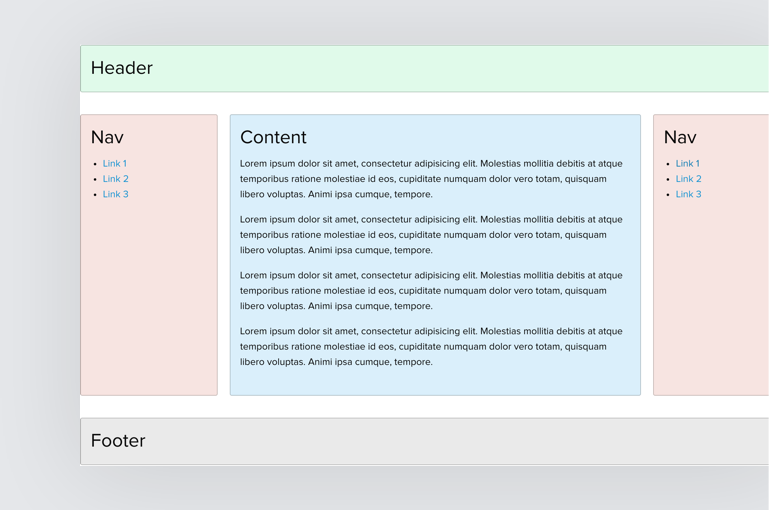
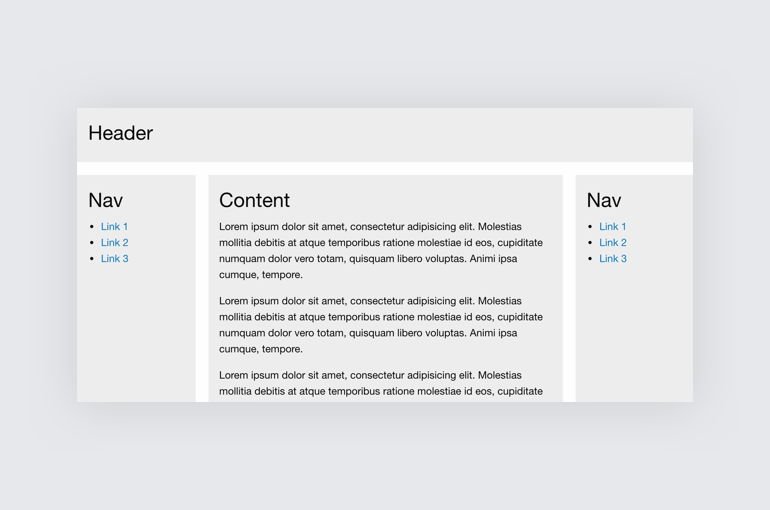
clean up classes for BBs button-badge, card-select, holy-grial, sign-in-form. change thumbnail for holy grail

diff --git a/src/building-blocks/holy-grail/holy-grail.html b/src/building-blocks/holy-grail/holy-grail.html
@@ -1,9 +1,9 @@
-<div class="grid-container">
-  <div class="header callout success">
+<div class="holy-grail-grid">
+  <div class="holy-grail-header">
     <h3>Header</h3>
   </div>
 
-  <div class="left-nav callout alert">
+  <div class="holy-grail-left">
     <h3>Nav</h3>
     <ul>
       <li><a href="#">Link 1</a></li>
@@ -12,7 +12,7 @@
     </ul>
   </div>
 
-  <div class="content callout primary">
+  <div class="holy-grail-middle">
     <h3>Content</h3>
     <p>Lorem ipsum dolor sit amet, consectetur adipisicing elit. Molestias mollitia debitis at atque temporibus ratione molestiae id eos, cupiditate numquam dolor vero totam, quisquam libero voluptas. Animi ipsa cumque, tempore.</p>
     <p>Lorem ipsum dolor sit amet, consectetur adipisicing elit. Molestias mollitia debitis at atque temporibus ratione molestiae id eos, cupiditate numquam dolor vero totam, quisquam libero voluptas. Animi ipsa cumque, tempore.</p>
@@ -20,7 +20,7 @@
     <p>Lorem ipsum dolor sit amet, consectetur adipisicing elit. Molestias mollitia debitis at atque temporibus ratione molestiae id eos, cupiditate numquam dolor vero totam, quisquam libero voluptas. Animi ipsa cumque, tempore.</p>
   </div>
 
-  <div class="right-nav callout alert">
+  <div class="holy-grail-right">
     <h3>Nav</h3>
     <ul>
       <li><a href="#">Link 1</a></li>
@@ -29,7 +29,7 @@
     </ul>
   </div>
 
-  <div class="footer callout secondary">
+  <div class="holy-grail-footer">
     <h3>Footer</h3>
   </div>
 

diff --git a/src/building-blocks/sign-in-form/sign-in-form.scss b/src/building-blocks/sign-in-form/sign-in-form.scss
@@ -1,50 +1,50 @@
-body {
-  padding: 1rem;
-  background-color: #ededed
-}
-
-.container {
+.sign-in-form {
   padding: 1rem 1.5em;
   border-radius: .5rem;
   background-color: #3d454f;
+
+  h4 {
+    color: white;
+    margin-bottom: 1rem;
+    font-weight: 600;
+    text-transform: uppercase
+  }
+
+  label {
+    text-transform: uppercase;
+    color: #adadad;
+    letter-spacing: 1px;
+    font-weight: 600;
+    margin-bottom: 1rem;
+  }
+
+  input {
+    color: white;
+  }
+
+  input:focus {
+    opacity: .8;
+  }
 }
 
-h4 {
-  color: white;
-  margin-bottom: 1rem;
-  font-weight: 600;
-  text-transform: uppercase
-}
-
-label {
-  text-transform: uppercase;
-  color: #adadad;
-  letter-spacing: 1px;
-  font-weight: 600;
-  margin-bottom: 1rem;
-}
-
-.username,
-.password {
+.sign-in-form-username,
+.sign-in-form-password {
   border-radius: 30px;
   border: none;
   opacity: .1;
+  transition: all ease .4s;
 }
 
-input {
-  color: white;
-}
-
-input:focus {
-  opacity: .8;
-}
-
-.button {
+.sign-in-form-button {
   border-radius: 30px;
-  border-color: white;
+  border: 1px solid #fff;
+  color: #fff;
   background-color: transparent;
   text-transform: uppercase;
   letter-spacing: 1px;
+  width: 100%;
+  padding: 1rem;
+  transition: all ease .4s;
 
   &:hover {
     background-color: #44c8ed;

diff --git a/src/building-blocks/holy-grail/holy-grail.scss b/src/building-blocks/holy-grail/holy-grail.scss
@@ -1,4 +1,4 @@
-.grid-container {
+.holy-grail-grid {
   display: grid;
   grid-template-columns: 1fr 3fr 1fr;
   grid-template-rows: 1fr 8fr 1fr;
@@ -11,18 +11,23 @@
   }
 }
 
-.header {
+.holy-grail-header,
+.holy-grail-left,
+.holy-grail-middle,
+.holy-grail-right,
+.holy-grail-footer {
+  padding: 1rem;
+  border: 1px solid #ededed;
+  background-color: #ededed
+}
+
+.holy-grail-header {
   grid-column-start: 1;
   grid-column-end: 4;
   grid-row-start: 1;
 }
 
-.left-nav,
-.right-nav {
-  background-color: tan;
-}
-
-.left-nav {
+.holy-grail-left {
   @media screen and (max-width: 60em) {
     grid-row-start: 2;
     grid-column-start: 1;
@@ -30,8 +35,7 @@
   }
 }
 
-.content {
-  background-color: blue;
+.holy-grail-middle {
   @media screen and (max-width: 60em) {
     grid-row-start: 3;
     grid-column-start: 1;
@@ -47,8 +51,7 @@
   }
 }
 
-.footer {
-  background-color: green;
+.holy-grail-footer {
   grid-column-start: 1;
   grid-column-end: 4;
 }

diff --git a/src/building-blocks/card-select/card-select.scss b/src/building-blocks/card-select/card-select.scss
@@ -1,21 +1,33 @@
-.card {
+.selectable-card {
   width: 300px;
   margin: 0 auto;
   text-align: center;
   transition: all 0.5s ease;
+  border: 1px solid #e6e6e6;
+  border-radius: .2rem;
+  background: #fefefe;
+  box-shadow: none;
+  overflow: hidden;
+  color: #0a0a0a;
 }
 
-.card-divider {
+.selectable-card-divider {
   background-color: white;
   letter-spacing: 1px;
   font-weight: 500;
   text-transform: uppercase;
-  border: 1px solid #c9c9c9;
+  padding: 1rem;
 }
 
-.button {
+.selectable-card-section {
+  padding: 1rem;
+}
+
+.selectable-card-button {
   padding: 1rem;
   background-color: #c9c9c9;
+  transition: all 0.5s ease;
+  width: 100%;
 
   &:after {
     content: 'Select';
@@ -36,7 +48,7 @@
   box-shadow: 0 0 10px #dbdbdb;
   transition: all 0.5s ease;
 
-  .button {
+  .selectable-card-button {
     background-color: #00a1e4;
 
     &:after {

diff --git a/src/building-blocks/sign-in-form/sign-in-form.html b/src/building-blocks/sign-in-form/sign-in-form.html
@@ -1,10 +1,10 @@
 <form>
-  <div class="container">
+  <div class="sign-in-form">
     <h4 class="text-center">Sign In</h4>
-    <label for="username">Username</label>
-    <input type="text" class="username" id="username">
-    <label for="password">Password</label>
-    <input type="text" class="password" id="password">
-    <button type="submit" class="button expanded">Sign In</button>
+    <label for="sign-in-form-username">Username</label>
+    <input type="text" class="sign-in-form-username" id="sign-in-form-username">
+    <label for="sign-in-form-password">Password</label>
+    <input type="text" class="sign-in-form-password" id="sign-in-form-password">
+    <button type="submit" class="sign-in-form-button">Sign In</button>
   </div>
 </form>

diff --git a/src/building-blocks/button-badge/button-badge.scss b/src/building-blocks/button-badge/button-badge.scss
@@ -1,20 +1,14 @@
-body {
-  padding-top: 3rem;
-  background-color: #efefef;
-  text-align: center;
-}
-
-.button {
-  background: white;
+.button-badge {
+  background-color: $primary-color;
   text-decoration: none;
-  padding: 1rem;
+  padding: 1rem 1.5rem;
   position: relative;
   display: inline-block;
-  border-radius: .3rem;
+  border-radius: .2rem;
   transition: all ease 0.4s;
 }
 
-.button:hover {
+.button-badge:hover {
   box-shadow: 0 1px 5px rgba(0, 0, 0, 0.1);
 }
 
@@ -23,7 +17,6 @@ body {
   top: -10px;
   right: -10px;
   font-size: .8em;
-  padding: .4rem;
 }
 
 .fa {

diff --git a/src/building-blocks/card-select/card-select.html b/src/building-blocks/card-select/card-select.html
@@ -1,11 +1,11 @@
-<div class="card">
-  <div class="card-divider">
+<div class="selectable-card">
+  <div class="selectable-card-divider">
     Abby the Cat
   </div>
   <img src="https://placeimg.com/640/480/animals">
-  <div class="card-section">
+  <div class="selectable-card-section">
     <h5>I need a new home!</h5>
     <p>Abby loves long naps in the sun, the laser game, and low-fat milk. She is also a great bug exterminator!</p>
   </div>
-  <button class="button"></button>
+  <button class="selectable-card-button"></button>
 </div>

diff --git a/src/building-blocks/button-badge/button-badge.html b/src/building-blocks/button-badge/button-badge.html
@@ -1,8 +1,7 @@
 <link href="https://cdnjs.cloudflare.com/ajax/libs/font-awesome/4.7.0/css/font-awesome.css" rel="stylesheet">
 
-<div class="container">
-  <a href="#" class="button primary">
-    <i class="fa fa-envelope"></i>
-    <span class="badge alert">1</span>
-  </a>
-</div>
+
+<a href="#" class="button-badge">
+  <i class="fa fa-envelope"></i>
+  <span class="badge alert">1</span>
+</a>

diff --git a/src/building-blocks/card-select/card-select.js b/src/building-blocks/card-select/card-select.js
@@ -1,8 +1,8 @@
 $(document).foundation();
 
 $(function() {
-  $('.button')
+  $('.selectable-card-button')
     .bind('click', function(event) {
-      $(".card").toggleClass("selected");
+      $(".selectable-card").toggleClass("selected");
     })
 });
